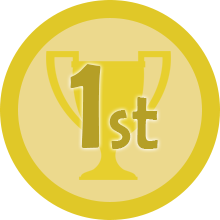
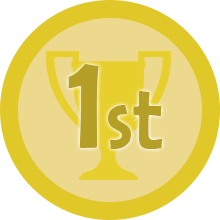
redesigned some badges

Changed region(s): [[0.3, 0.2727, 0.7636, 0.6818]]

diff --git a/resources/styles/styles.scss b/resources/styles/styles.scss
@@ -347,7 +347,6 @@ $label-background-color: #46578D;
 /* -----------------------
    Message Boxes
    ----------------------- */
-
 .bugMessageBox ,
 .notificationMessageBox {
     .x-msgbox-text {
@@ -365,7 +364,7 @@ $label-background-color: #46578D;
                     }
                     
                     .badges {
-                        $badge-image-size: 100px;
+                        $badge-image-size: 110px;
                         overflow: hidden;
 
                         .badge {
